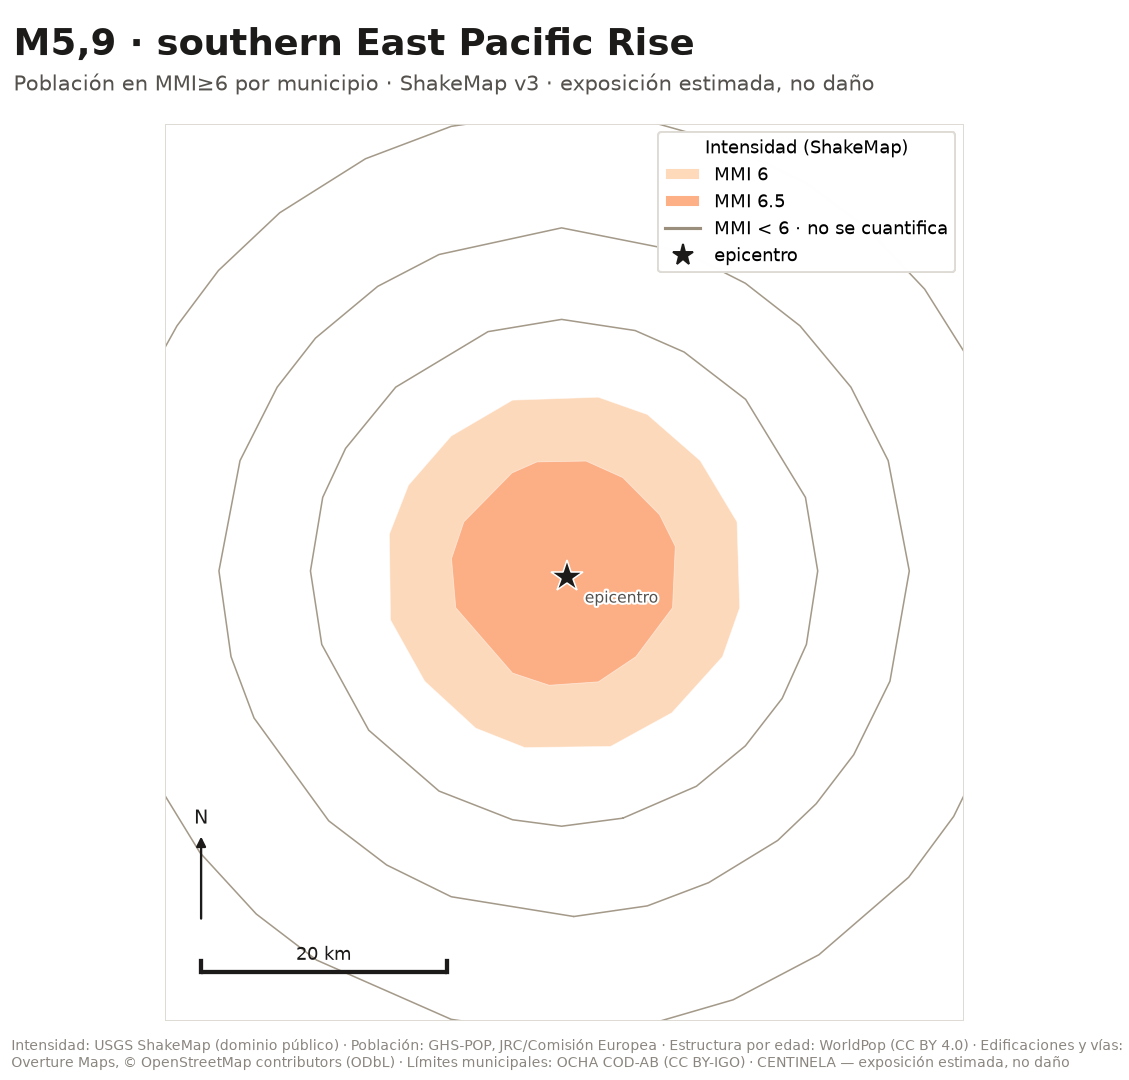
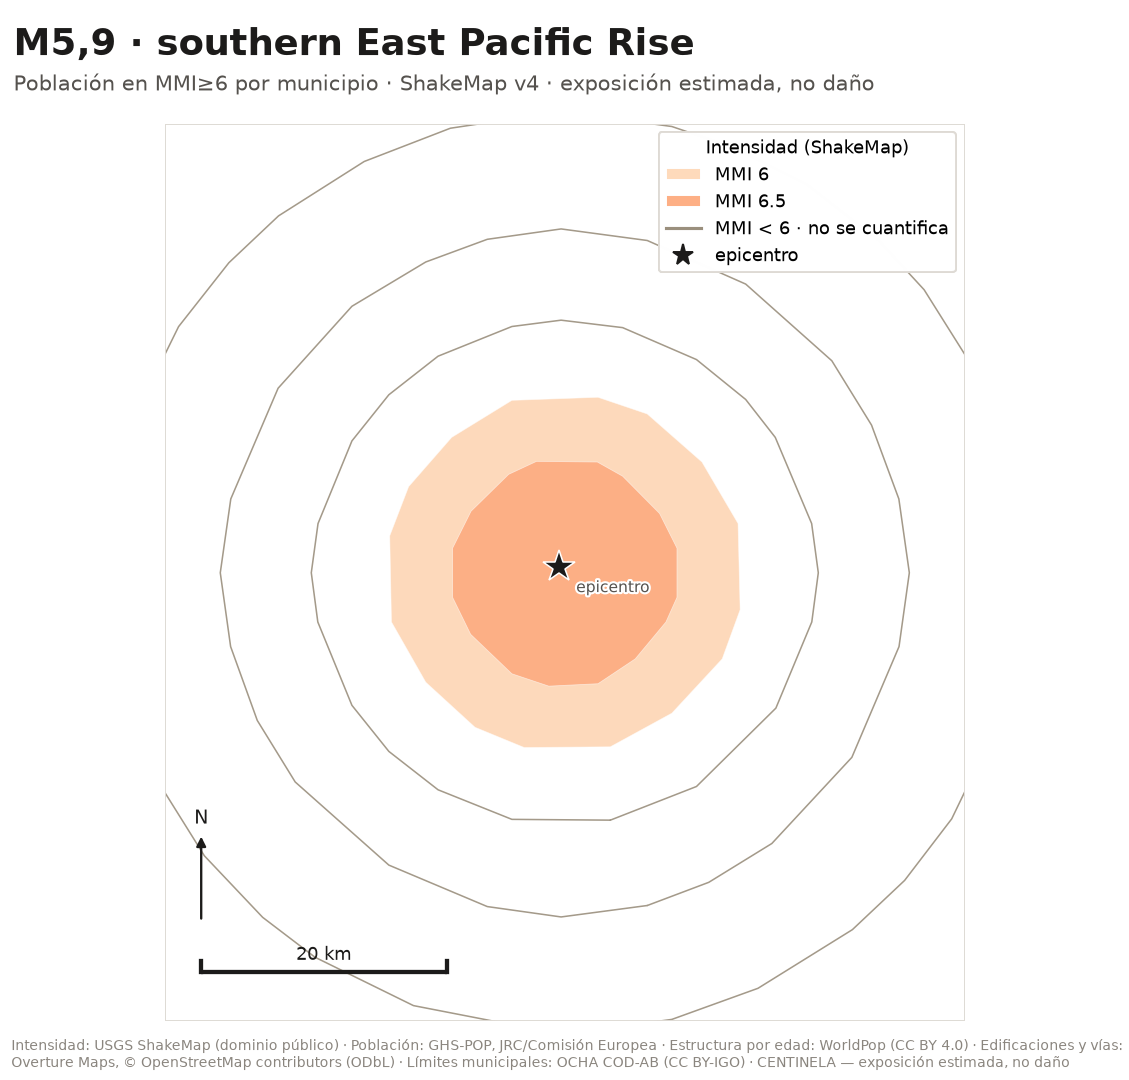
P3: reporte de us7000tdms

diff --git a/reports/us7000tdms/report.md b/reports/us7000tdms/report.md
@@ -44,7 +44,13 @@ Las dos cifras **no se tabulan igual** y no se pueden leer una contra otra: PAGE
 
 Discrepancia entre GHS-POP y WorldPop: **no se pudo medir**. Ninguna celda dentro de las bandas publicadas tiene población de WorldPop con la que contrastar.
 
-- El epicentro está a 868 km de la población más cercana del país con la que se comparó. La sacudida no alcanzó territorio habitado.
+- El epicentro está a 856 km de la población más cercana del país con la que se comparó. La sacudida no alcanzó territorio habitado.
+
+## Cambios frente a la versión anterior
+
+- ShakeMap: v3 → v4
+- Epicentro: reubicado 11 km
+- Ninguna cifra publicada cambia frente a la versión anterior.
 
 ## Descargas
 
@@ -53,10 +59,10 @@ Discrepancia entre GHS-POP y WorldPop: **no se pudo medir**. Ninguna celda dentr
 
 ## Procedencia
 
-- ShakeMap consumido: **v3**
+- ShakeMap consumido: **v4**
 - Ground Failure consumido: **ninguno** (no publicado aún)
 - Manifiesto de exposición: [`chl-v0.3`](https://github.com/sforero77/CENTINELA/blob/main/data/manifests/CHL.yaml)
-- Pipeline: `0.1.0` · Generado: 2026-09-08T01:03:18Z
+- Pipeline: `0.1.0` · Generado: 2026-09-25T10:30:53Z
 
 ## Advertencias
 
